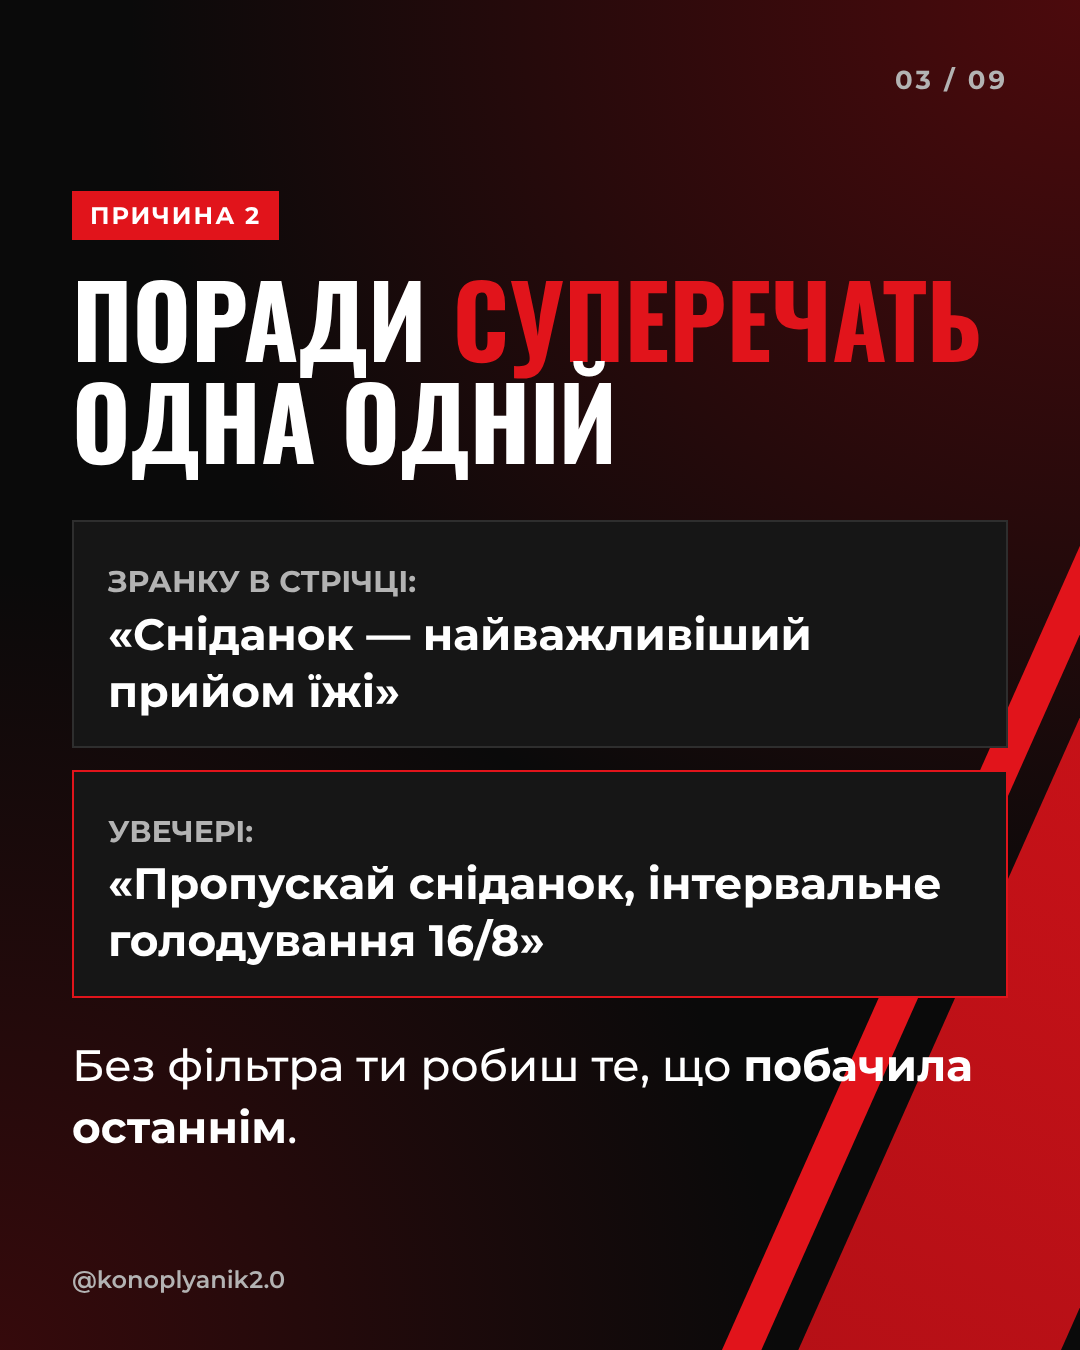
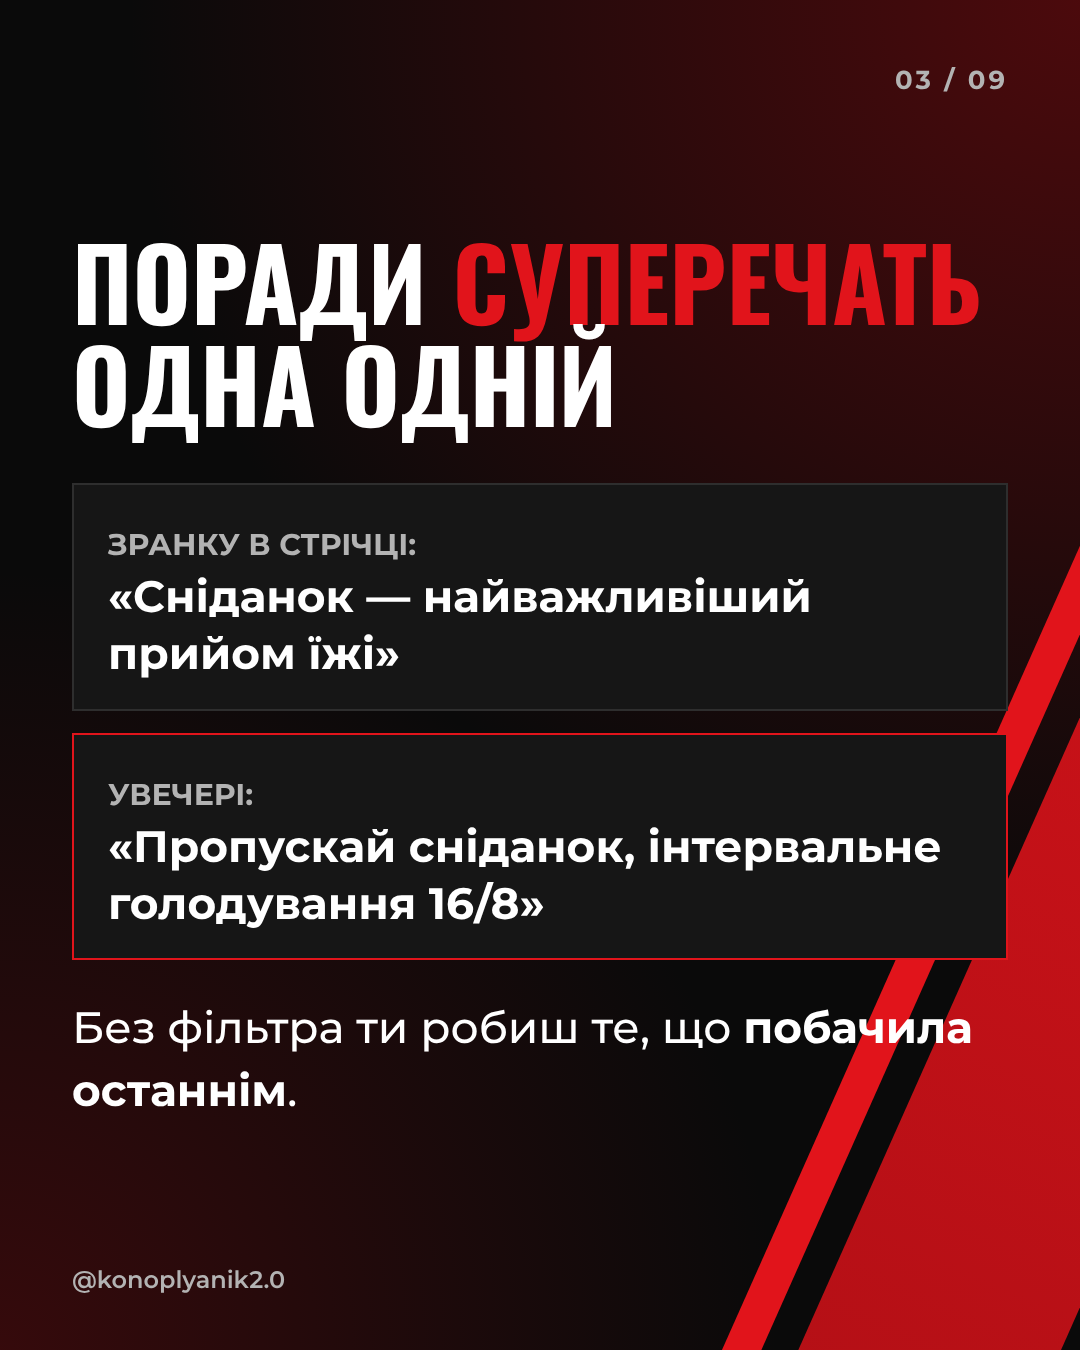
Bogdan: no red label badges; carousel 26.11 re-rendered
Claude-Session: https://claude.ai/code/session_01AWhP1rcQ4RM4eLbmxttza6

Changed region(s): [[0.0611, 0.1244, 0.9167, 0.5289], [0.0611, 0.56, 0.9472, 0.8711], [0.8861, 0.5289, 0.9472, 0.5911]]

diff --git a/klienty/fitnes-trener-bogdan/vizual/2026-11-26-ishodnik/build.py b/klienty/fitnes-trener-bogdan/vizual/2026-11-26-ishodnik/build.py
@@ -38,20 +38,20 @@ def K(id,inner,n,bg=''): S.append((id,f'<div class="s k" id="{id}">{bg}<div clas
 G='<div class="glow"></div>'; SL=G+'<div class="slash"></div><div class="slash2"></div>'
 def ph(f,pos='center',g='gb'): return f'<div class="ph" style="background-image:url({f}.jpg);background-position:{pos}"></div><div class="{g}"></div>'
 # carousel
-K('k1',ph('03-kurtka-park-pohliad-v-kameru','50% 20%')+'<div class="wrap" style="bottom:150px"><div class="label">▸ ХАРЧУВАННЯ БЕЗ ЗАБОРОН</div><h1 style="margin-top:26px;font-size:100px">НАЙБІЛЬША ПОМИЛКА ДІВЧАТ — ДУМАТИ, ЩО ЇМ БРАКУЄ <span class="r">ІНФОРМАЦІЇ</span></h1><div class="body muted" style="font-size:34px;margin-top:24px">Усе є в інтернеті. Ось 4 причини, чому все одно не виходить, і що реально працює.</div></div><div class="pill">ГОРТАЙ →</div>',1)
+K('k1',ph('03-kurtka-park-pohliad-v-kameru','50% 20%')+'<div class="wrap" style="bottom:150px"><h1 style="font-size:100px">НАЙБІЛЬША ПОМИЛКА ДІВЧАТ — ДУМАТИ, ЩО ЇМ БРАКУЄ <span class="r">ІНФОРМАЦІЇ</span></h1><div class="body muted" style="font-size:34px;margin-top:24px">Усе є в інтернеті. Ось 4 причини, чому все одно не виходить, і що реально працює.</div></div><div class="pill">ГОРТАЙ →</div>',1)
 txt=[('ЗНАННЯ НЕ ЛЕЖАТЬ У *ХОЛОДИЛЬНИКУ*','ПРИЧИНА 1','Прочитала 20 статей про білок, а в холодильнику — <b>сирки, ковбаса й батон</b>.<br><br>Що буде на вечерю, вирішує те, що лежить на полиці о 19:30, а не вкладка в браузері.'),
 ('ПОРАДИ *СУПЕРЕЧАТЬ* ОДНА ОДНІЙ','ПРИЧИНА 2',None),
 ('МЕНЮ НА МІСЯЦЬ ЛАМАЄТЬСЯ В *СЕРЕДУ*','ПРИЧИНА 3','Інтернет дає план на 30 днів із п’ятьма прийомами їжі. У середу затрималась на роботі, з’їла піцу в офісі — і <b>«почну з понеділка»</b>.<br><br>Запасного варіанта немає, тому один вечір валить увесь місяць.'),
 ('*СТАТТЯ* НЕ БАЧИТЬ ТВОЮ ТАРІЛКУ','ПРИЧИНА 4','Ти впевнена, що снідаєш із білком: два яйця й кава. Це <b>12–13 г білка</b> — менше, ніж половина пачки кисломолочного сиру.<br><br>Жодна стаття не покаже, де твоє «знаю» розходиться з тарілкою.')]
 for i,(h,l,b) in enumerate(txt):
     if b is None:
-        inner=f'<div class="wrap mid"><div class="label">{l}</div><h2 style="margin-top:26px">{acc(h)}</h2><div class="chips"><div class="chip"><span class="muted" style="font-size:30px">ЗРАНКУ В СТРІЧЦІ:</span><br>«Сніданок — найважливіший прийом їжі»</div><div class="chip red"><span class="muted" style="font-size:30px">УВЕЧЕРІ:</span><br>«Пропускай сніданок, інтервальне голодування 16/8»</div></div><div class="body">Без фільтра ти робиш те, що <b>побачила останнім</b>.</div></div>'
+        inner=f'<div class="wrap mid"><h2>{acc(h)}</h2><div class="chips"><div class="chip"><span class="muted" style="font-size:30px">ЗРАНКУ В СТРІЧЦІ:</span><br>«Сніданок — найважливіший прийом їжі»</div><div class="chip red"><span class="muted" style="font-size:30px">УВЕЧЕРІ:</span><br>«Пропускай сніданок, інтервальне голодування 16/8»</div></div><div class="body">Без фільтра ти робиш те, що <b>побачила останнім</b>.</div></div>'
     else:
-        inner=f'<div class="wrap mid"><div class="label">{l}</div><h2 style="margin-top:26px">{acc(h)}</h2><div class="card">{b}</div></div>'
+        inner=f'<div class="wrap mid"><h2>{acc(h)}</h2><div class="card">{b}</div></div>'
     K(f'k{i+2}',inner,i+2,SL if i%2 else G)
-K('k6','<div class="wrap mid"><div class="label">ЩО ПРАЦЮЄ · 1</div><h2 style="margin-top:26px"><span class="r">ФІЛЬТР</span> ІЗ ТРЬОХ ПИТАНЬ</h2><div class="qs"><div><i>1</i><span>Чи зможу я так у звичайний вівторок?</span></div><div><i>2</i><span>Чи куплю це в магазині біля дому?</span></div><div><i>3</i><span>Чи немає в ній заборони назавжди?</span></div></div><div class="body">Хоч одне «ні» — <b>гортай далі</b>.</div></div>',6,G)
-K('k7','<div class="wrap mid"><div class="label">ЩО ПРАЦЮЄ · 2</div><h2 style="margin-top:26px">ПЛАН НА ОДИН <span class="r">ВЕЧІР</span></h2><div class="chips"><div class="chip"><span class="r" style="font-family:Oswald;font-size:64px">13:00</span><br>Вирішуєш, що буде на вечерю, і перевіряєш, чи це є вдома.</div><div class="chip red"><span class="r" style="font-family:Oswald;font-size:64px">19:00</span><br>Не вибираєш голодною біля холодильника — просто готуєш.</div></div></div>',7,SL)
-K('k8',ph('11-yizha-svynyna-na-skovorodi','50% 60%','gt')+'<div class="wrap" style="top:130px"><div class="label">ЩО ПРАЦЮЄ · 3</div><h2 style="margin-top:26px">ТРИ <span class="r">ЗАПАСНІ</span> ВЕЧЕРІ</h2><div class="list"><div>Омлет з овочами</div><div>Паста з тунцем і помідорами</div><div>Гречка з куркою з учорашнього</div></div><div class="body" style="font-size:36px">По 15 хвилин. План зірвався — береш одну з трьох замість доставки.</div></div>',8)
+K('k6','<div class="wrap mid"><h2><span class="r">ФІЛЬТР</span> ІЗ ТРЬОХ ПИТАНЬ</h2><div class="qs"><div><i>1</i><span>Чи зможу я так у звичайний вівторок?</span></div><div><i>2</i><span>Чи куплю це в магазині біля дому?</span></div><div><i>3</i><span>Чи немає в ній заборони назавжди?</span></div></div><div class="body">Хоч одне «ні» — <b>гортай далі</b>.</div></div>',6,G)
+K('k7','<div class="wrap mid"><h2>ПЛАН НА ОДИН <span class="r">ВЕЧІР</span></h2><div class="chips"><div class="chip"><span class="r" style="font-family:Oswald;font-size:64px">13:00</span><br>Вирішуєш, що буде на вечерю, і перевіряєш, чи це є вдома.</div><div class="chip red"><span class="r" style="font-family:Oswald;font-size:64px">19:00</span><br>Не вибираєш голодною біля холодильника — просто готуєш.</div></div></div>',7,SL)
+K('k8',ph('11-yizha-svynyna-na-skovorodi','50% 60%','gt')+'<div class="wrap" style="top:130px"><h2>ТРИ <span class="r">ЗАПАСНІ</span> ВЕЧЕРІ</h2><div class="list"><div>Омлет з овочами</div><div>Паста з тунцем і помідорами</div><div>Гречка з куркою з учорашнього</div></div><div class="body" style="font-size:36px">По 15 хвилин. План зірвався — береш одну з трьох замість доставки.</div></div>',8)
 K('k9',ph('04-kurtka-cegla-ok-zhest-usmishka','50% 25%')+'<div class="wrap" style="bottom:140px"><h1 style="font-size:96px">ЯКА ТВОЯ <span class="r">ВЕЧЕРЯ</span> НА 15 ХВИЛИН?</h1><div class="body" style="font-size:38px;margin-top:24px">Напиши в коментарях, що готуєш, коли план зірвався. Під цим постом збереться готовий список вечерь на будь-який вечір.</div></div>',9)
 # stories
 def phb(f,top,pos='50% 0%'):

diff --git a/.claude/agents/dizayner.md b/.claude/agents/dizayner.md
@@ -19,6 +19,8 @@ model: opus
 
 **Каруселі Богдана: не використовувати «8 років» і «1000+ клієнтів»** — ни на слайдах, ни в надзаголовках (решение директора 26.11.2026).
 
+**Без красных плашек-надзаголовков** (бейдж с текстом на красной заливке над заголовком: «▸ …», «ПРИЧИНА 1», «ЩО ПРАЦЮЄ», «ПИТАННЯ 1/3» и т.п.) — не использовать ни в каруселях, ни в сторис, ни на обложках (решение директора 26.11.2026). Заголовок начинается сразу.
+
 ## Что получаешь
 Текст карусели или публикации от копирайтера или сценариста клиента (`kopirayter`/`scenarist` — Богдан, `kopirayter-mpk`/`scenarist-mpk` — mpk-invest), бриф `klienty/<клиент>/brif.md`, визуальный стиль `klienty/<клиент>/vizual-stil.md` или брендбук (логотип, цвета, шрифты, примеры), если есть. Если стиля нет, сначала собери его. Если чего-то не хватает, скажи, чего именно, и не выдумывай.
 

diff --git a/klienty/fitnes-trener-bogdan/brif.md b/klienty/fitnes-trener-bogdan/brif.md
@@ -99,3 +99,4 @@
 - **Threads: 15–25 постов в день** (директор, 26.11.2026). Пакет постов готовится на день целиком; темы внутри дня не повторяются, формулы чередуются.
 - **Собака Богдана сейчас — Луна** (французский бульдог, фото 12–13). **Шелби больше не живёт с Богданом** (по обстоятельствам; не уточнять и не упоминать в публикациях). Во всех новых публикациях вместо Шелби — Луна. Старые цифры по роликам с Шелби — только как данные аудита (директор 26.11.2026).
 - **В каруселях не использовать «8 років» и «1000+ клієнтів»** (ни на слайдах, ни в надзаголовках) — решение директора 26.11.2026.
+- **Красные плашки-надзаголовки сверху не использовать** (в каруселях, сторис, обложках) — решение директора 26.11.2026.
